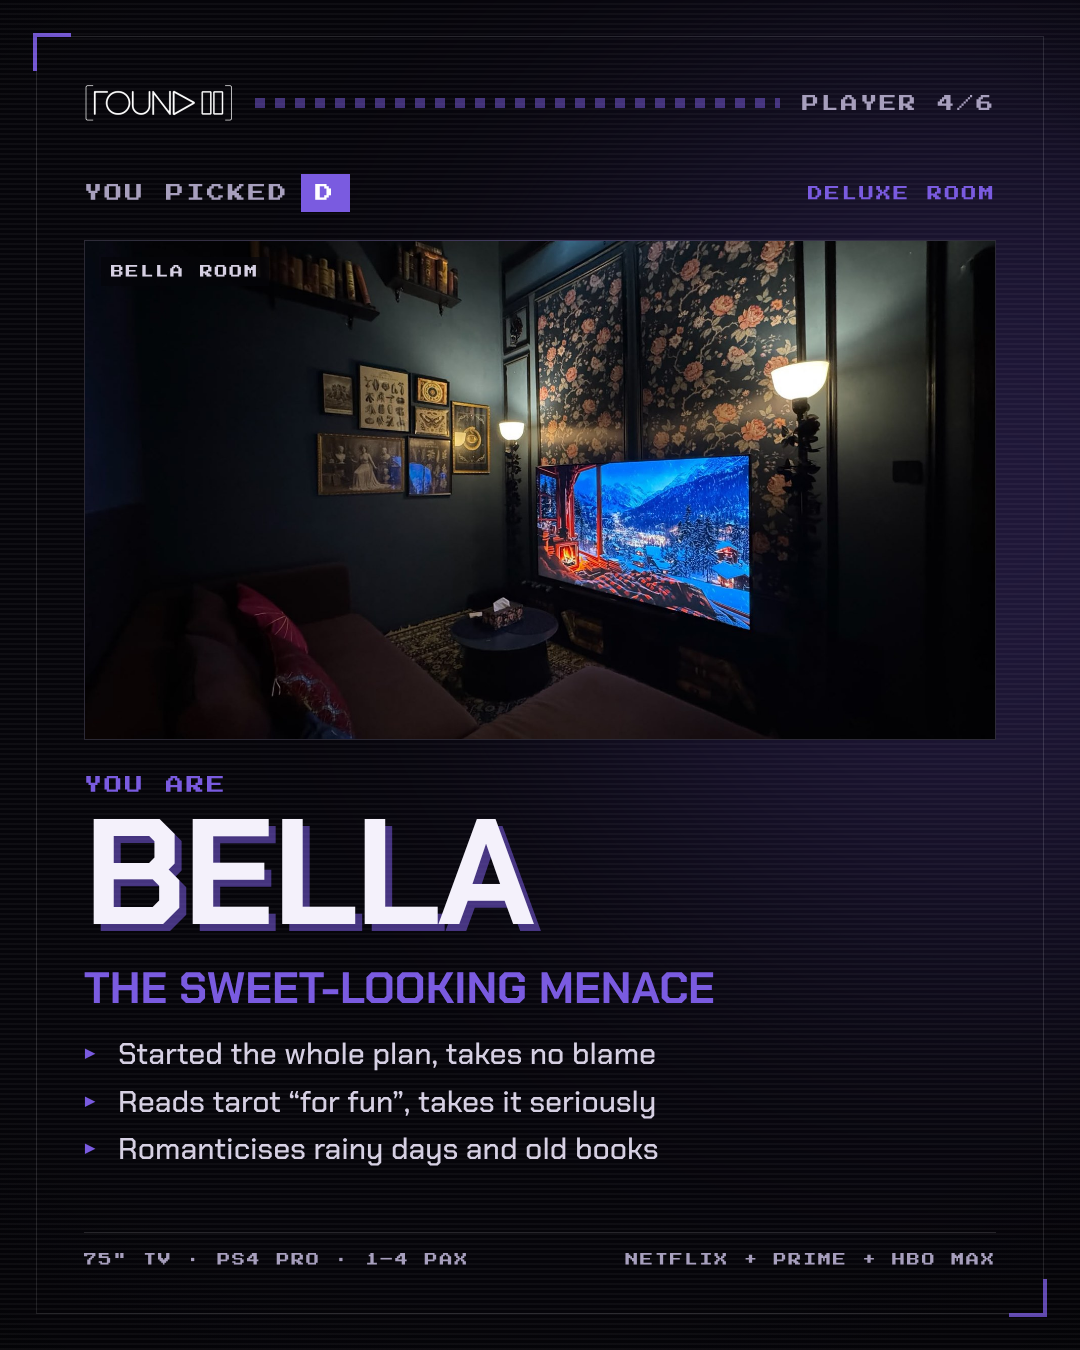
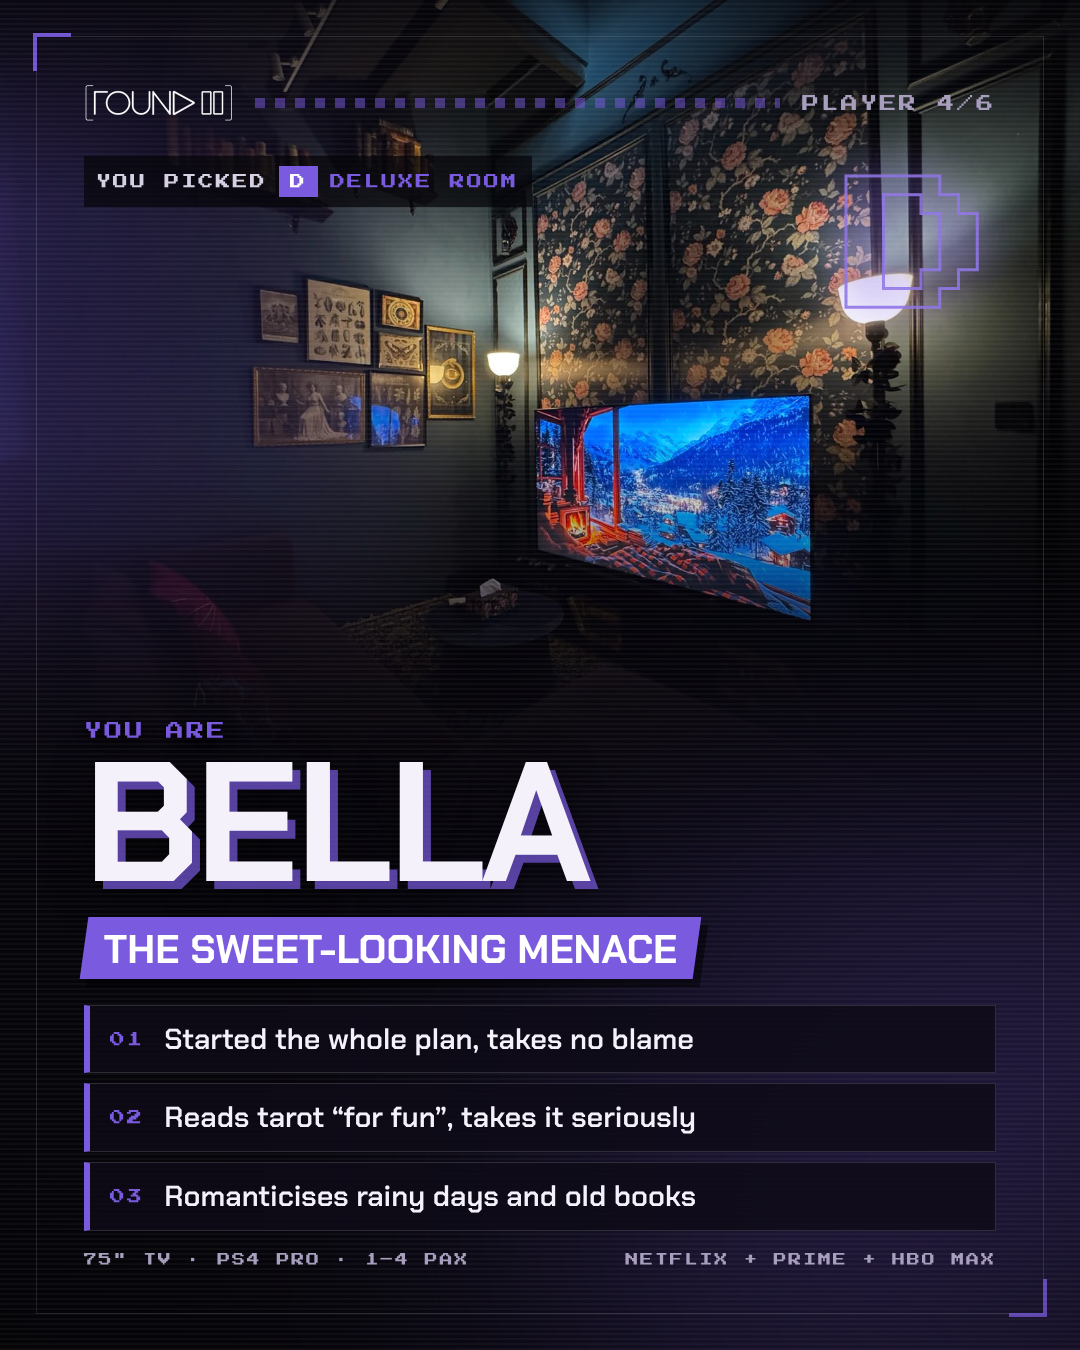
Room quiz: full-bleed photo profile cards, photo letter tiles on the end slide
Claude-Session: https://claude.ai/code/session_01PDkwSCLDYKchcH27nujJvW

diff --git a/marketing/ig-room-quiz/index.html b/marketing/ig-room-quiz/index.html
@@ -49,36 +49,43 @@ body.render .blink{animation:none}
 .tile .p1{position:absolute;right:14px;top:14px;z-index:2;padding:9px 10px;font-size:13px;background:#06050a;color:var(--oc)}
 .cv-f{margin-top:22px;display:flex;justify-content:space-between;font-size:16px;color:var(--mute)}
 .cv-f b{font-weight:400;color:var(--accent)}
-/* room card */
-.rk{margin-top:52px;display:flex;justify-content:space-between;align-items:center}
-.rk .l{font-size:18px;color:var(--mute)}
-.rk .l b{display:inline-block;margin-left:12px;padding:10px 14px;background:var(--c);color:var(--cink);font-weight:400}
-.rk .tier{font-size:15px;color:var(--c)}
-.screen{position:relative;margin-top:28px;height:500px;border:1px solid var(--line);display:flex;align-items:center;justify-content:center;
-  background:radial-gradient(80% 90% at 50% 100%,color-mix(in srgb,var(--c) 26%,transparent),transparent 70%),#0b0914}
-.sprite{display:grid}
-.screen{overflow:hidden}
-.screen .photo{position:absolute;inset:0;width:100%;height:100%;object-fit:cover;z-index:2}
-.screen .sprite{position:relative;z-index:1}
-.screen .ptag{position:absolute;left:16px;top:16px;z-index:3;padding:8px 10px;background:rgba(6,5,10,.72);font-size:13px;color:var(--soft)}
-.sprite i{display:block}
-.you{margin-top:36px;font-size:18px;color:var(--c)}
-.nm{margin:14px 0 0;font-weight:700;font-size:150px;line-height:.86;text-transform:uppercase;letter-spacing:-.01em;
-  text-shadow:7px 7px 0 color-mix(in srgb,var(--c) 55%,transparent)}
-.nm.long{font-size:116px}
-.type{margin-top:22px;font-size:44px;font-weight:700;color:var(--c);text-transform:uppercase}
-.traits{margin:18px 0 0;padding:0;list-style:none;display:grid;gap:10px}
-.traits li{position:relative;padding-left:34px;font-size:30px;line-height:1.25;color:var(--soft)}
-.traits li::before{content:'▶';position:absolute;left:0;top:7px;font-size:18px;color:var(--c)}
-.spec{margin-top:auto;padding-top:20px;border-top:1px solid var(--line);display:flex;justify-content:space-between;font-size:13px;color:var(--mute)}
-
+/* room card – character profile */
+.hero{position:absolute;left:0;right:0;top:0;height:880px;overflow:hidden;z-index:1;background:#0b0914;
+  -webkit-mask-image:linear-gradient(180deg,#000 62%,transparent 100%);mask-image:linear-gradient(180deg,#000 62%,transparent 100%)}
+.hero img{position:absolute;inset:0;width:100%;height:100%;object-fit:cover;filter:saturate(1.08)}
+.hero .sprite{position:absolute;left:50%;top:44%;transform:translate(-50%,-50%)}
+.hero::after{content:"";position:absolute;inset:0;
+  background:linear-gradient(180deg,rgba(6,5,10,.78) 0%,rgba(6,5,10,0) 24%,rgba(6,5,10,0) 50%,rgba(6,5,10,.7) 80%,rgba(6,5,10,.9) 100%),
+             linear-gradient(90deg,color-mix(in srgb,var(--c) 28%,transparent),transparent 45%)}
+.big{position:absolute;right:84px;top:176px;z-index:2;font-family:'Press Start 2P',monospace;font-size:150px;line-height:1;
+  color:transparent;-webkit-text-stroke:3px color-mix(in srgb,var(--c) 85%,white);opacity:.9;text-shadow:0 0 50px color-mix(in srgb,var(--c) 60%,transparent)}
+.slide .glow.card{opacity:.16}
+.pick{margin-top:34px;align-self:flex-start;display:flex;align-items:center;gap:12px;padding:10px 14px 10px 12px;background:rgba(6,5,10,.72);font-size:15px;color:var(--soft)}
+.pick b{display:inline-block;padding:8px 11px;background:var(--c);color:var(--cink);font-weight:400}
+.pick .tier{color:var(--c)}
+.you{margin-top:auto;font-size:18px;color:var(--c);text-shadow:0 2px 12px #000}
+.nm{margin:12px 0 0;font-weight:700;font-size:170px;line-height:.84;text-transform:uppercase;letter-spacing:-.015em;
+  text-shadow:8px 8px 0 color-mix(in srgb,var(--c) 70%,transparent),0 10px 40px rgba(0,0,0,.6)}
+.nm.long{font-size:124px}
+.type{margin-top:22px;align-self:flex-start;padding:12px 20px 10px;font-size:40px;font-weight:700;line-height:1;text-transform:uppercase;
+  background:var(--c);color:var(--cink);transform:skewX(-8deg);box-shadow:8px 8px 0 rgba(0,0,0,.5)}
+.type span{display:inline-block;transform:skewX(8deg)}
+.perks{margin-top:26px;display:grid;gap:10px}
+.perk{display:flex;align-items:center;gap:20px;padding:16px 20px;background:rgba(14,11,23,.86);border:1px solid var(--line);border-left:6px solid var(--c)}
+.perk .n{font-size:15px;color:var(--c);flex:none}
+.perk .t{font-size:29px;font-weight:600;line-height:1.2;color:var(--ink)}
+.spec{margin-top:22px;display:flex;justify-content:space-between;font-size:13px;color:var(--mute)}
 /* end */
-.en-k{margin-top:120px;font-size:24px;color:var(--accent)}
+.en-k{margin-top:70px;font-size:24px;color:var(--accent)}
 .en-t{margin:30px 0 0;font-weight:700;font-size:128px;line-height:.92;text-transform:uppercase}
 .en-t em{font-style:normal;color:var(--accent)}
 .en-s{margin-top:34px;font-size:36px;line-height:1.35;color:var(--soft)}
-.chips{margin-top:44px;display:flex;gap:12px}
-.chips span{flex:1;height:84px;display:flex;align-items:center;justify-content:center;font-size:26px;background:var(--oc);color:var(--ok)}
+.chips{margin-top:40px;display:flex;gap:10px}
+.chip{position:relative;flex:1;height:340px;overflow:hidden;border-bottom:8px solid var(--oc);background:#0b0914}
+.chip img{position:absolute;inset:0;width:100%;height:100%;object-fit:cover}
+.chip::after{content:"";position:absolute;inset:0;background:linear-gradient(180deg,rgba(6,5,10,0) 35%,rgba(6,5,10,.9))}
+.chip .k{position:absolute;left:50%;top:18px;transform:translateX(-50%);z-index:2;width:50px;height:50px;display:flex;align-items:center;justify-content:center;font-size:20px;background:var(--oc);color:var(--ok)}
+.chip .r{position:absolute;left:0;right:0;bottom:14px;z-index:2;text-align:center;font-size:10px;color:var(--ink)}
 .cta{margin-top:auto;display:flex;align-items:center;justify-content:space-between;padding:34px 36px;background:var(--accent);color:#0b0914}
 .cta .a{font-weight:700;font-size:50px;text-transform:uppercase;line-height:1}
 .cta .b{font-size:16px}
@@ -145,8 +152,8 @@ function sprite(name, color, px=32){
     cells += `<i style="width:${px}px;height:${px}px;background:${k==='.'?'transparent':(s.pal[k]==='C'?color:s.pal[k])}"></i>`; }
   return `<div class="sprite" style="grid-template-columns:repeat(${w},${px}px)">${cells}</div>`;
 }
-const frame = (c, ink, inner, g='left:-300px;top:-260px') =>
-  `<section class="slide" style="--c:${c};--cink:${ink}"><div class="glow" style="${g}"></div><div class="frame"></div><div class="vign"></div><div class="scan"></div><div class="in">${inner}</div></section>`;
+const frame = (c, ink, inner, g='left:-300px;top:-260px', bg='') =>
+  `<section class="slide" style="--c:${c};--cink:${ink}">${bg}<div class="glow" style="${g}"></div><div class="frame"></div><div class="vign"></div><div class="scan"></div><div class="in">${inner}</div></section>`;
 const topBar = t => `<div class="top px"><img src="${LOGO}" alt="Round2"><div class="dash"></div><span>${esc(t)}</span></div>`;
 
 function cover(){
@@ -163,18 +170,21 @@ function cover(){
 }
 function card(q, i){
   const r = ROOMS[q.room];
+  const bg = `<div class="hero">${sprite(q.sprite, r.c)}<img src="photos/${q.room.toLowerCase()}.jpg" alt="" onerror="this.remove()"></div>
+    <div class="big">${q.k}</div>`;
   return frame(r.c, r.ink, `${topBar('Player ' + (i+1) + '/' + QUIZ.length)}
-    <div class="rk"><div class="l px">You picked<b>${q.k}</b></div><div class="tier px">${esc(r.tier)}</div></div>
-    <div class="screen">${sprite(q.sprite, r.c)}<img class="photo" src="photos/${q.room.toLowerCase()}.jpg" alt="" onerror="this.remove()"><span class="ptag px">${esc(q.room)} room</span></div>
+    <div class="pick px">You picked<b>${q.k}</b><span class="tier">${esc(r.tier)}</span></div>
     <div class="you px">You are</div>
     <h2 class="nm${q.room.length > 7 ? ' long' : ''}">${esc(q.room)}</h2>
-    <div class="type">${esc(q.type)}</div>
-    <ul class="traits">${q.traits.map(t => `<li>${esc(t)}</li>`).join('')}</ul>
+    <div class="type"><span>${esc(q.type)}</span></div>
+    <div class="perks">${q.traits.map((t, j) => `<div class="perk"><span class="n px">0${j+1}</span><span class="t">${esc(t)}</span></div>`).join('')}</div>
     <div class="spec px"><span>${esc(r.spec)}</span><span>${esc(STREAM[r.tier])}</span></div>`,
-    i % 2 ? 'right:-360px;top:60px' : 'left:-360px;top:60px');
+    i % 2 ? 'right:-360px;bottom:-300px' : 'left:-360px;bottom:-300px', bg);
 }
 function end(){
-  const chips = QUIZ.map(q => { const r = ROOMS[q.room]; return `<span class="px" style="--oc:${r.c};--ok:${r.ink}">${q.k}</span>`; }).join('');
+  const chips = QUIZ.map(q => { const r = ROOMS[q.room]; return `<div class="chip" style="--oc:${r.c};--ok:${r.ink}">
+    <img src="photos/${q.room.toLowerCase()}.jpg" alt="" onerror="this.remove()"><span class="k px">${q.k}</span>
+    <span class="r px">${esc(q.room === 'Maximillion' ? 'Max' : q.room)}</span></div>`; }).join('');
   return frame('#F2C21B','#0b0914', `${topBar('Your move')}
     <div class="en-k px">Player 2, press start <span class="blink">_</span></div>
     <h2 class="en-t">Drop your<br><em>letter.</em></h2>
